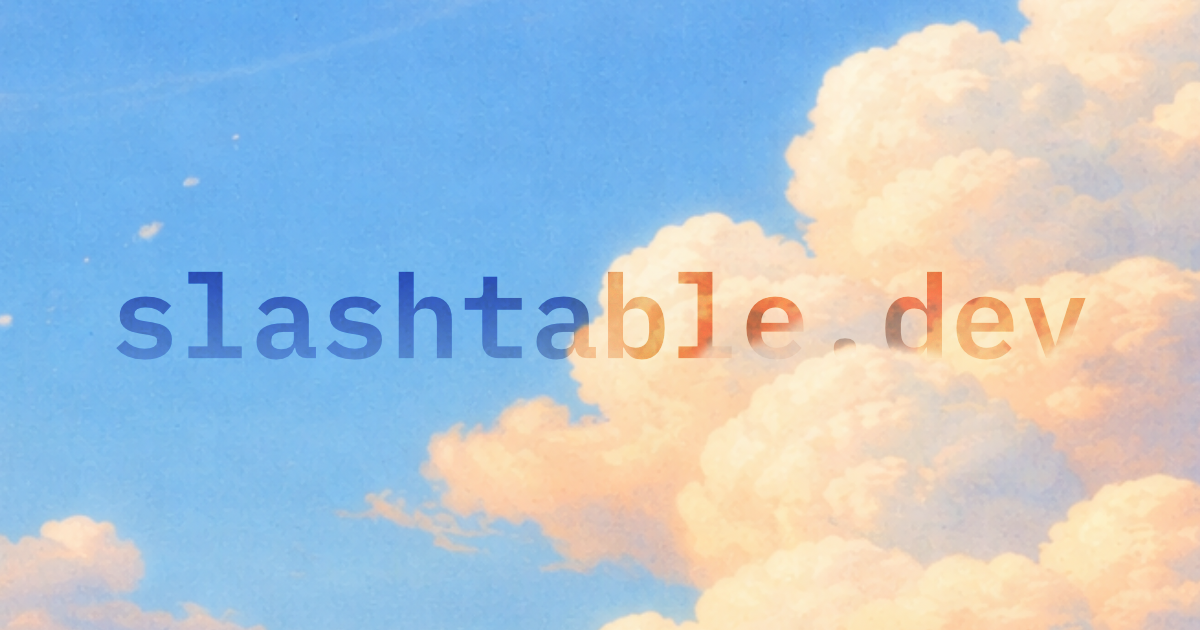
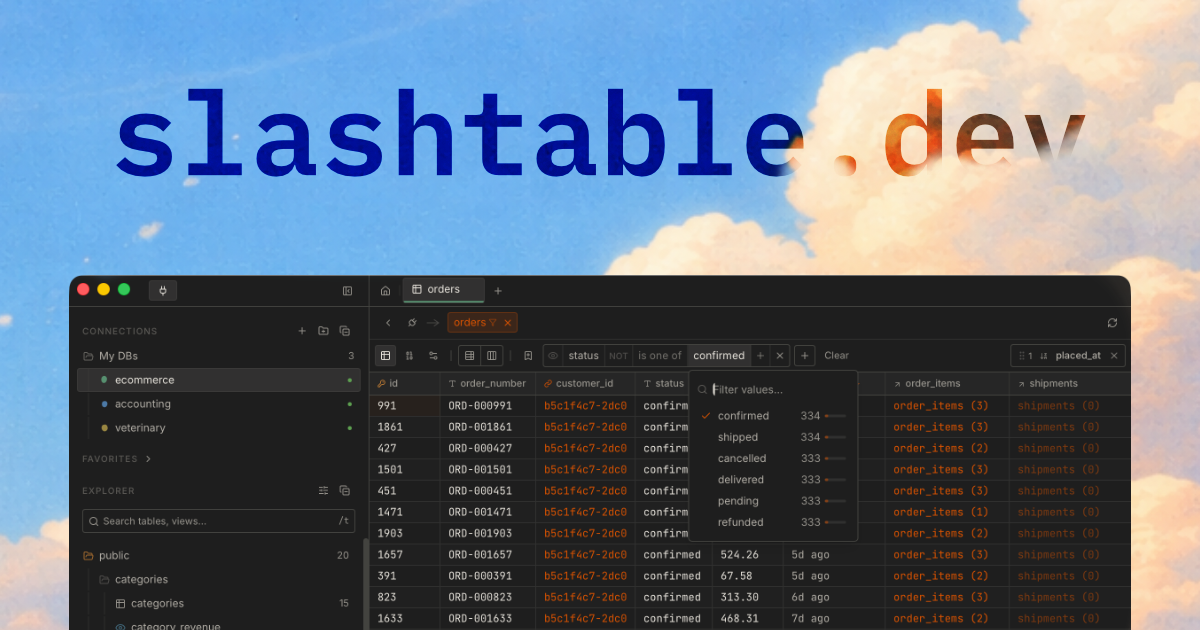
feat: refine pricing, downloads and hero section

diff --git a/src/routes/pricing.tsx b/src/routes/pricing.tsx
@@ -1,15 +1,20 @@
 import { createFileRoute } from "@tanstack/react-router";
 import { Check, Info } from "lucide-react";
-import { useMemo, useRef, useState } from "react";
+import { useRef, useState } from "react";
 import { ContactSalesModal } from "../components/ui/ContactSalesModal";
 import { ContentContainer } from "../components/ui/ContentContainer";
 import { FadeIn } from "../components/ui/FadeIn";
+import { SkyParallax } from "../components/ui/SkyParallax";
 import { ThankYouModal } from "../components/ui/ThankYouModal";
 import { useDownload } from "../hooks/useDownload";
-import { discountedPrice, formatDiscount, isDiscountActive, usePolarDiscounts } from "../hooks/usePolarDiscounts";
 import { trackCheckoutClicked, trackContactSalesOpened } from "../lib/analytics";
 import { PRICING, polarCheckoutUrl } from "../lib/copy";
 import { cn } from "../lib/utils";
+
+function parseDollars(price: string): number {
+  const m = price.match(/\d+/);
+  return m ? Number(m[0]) : 0;
+}
 
 export const Route = createFileRoute("/pricing")({
   component: PricingPage,
@@ -70,27 +75,54 @@ function VaultTooltip() {
 function PricingPage() {
   const { showThankYou, closeThankYou, triggerDownload } = useDownload();
   const [showContactSales, setShowContactSales] = useState(false);
+  const bannerRef = useRef<HTMLDivElement>(null);
 
-  const polarIds = useMemo(() => PRICING.tiers.filter((t) => t.polarId).map((t) => t.polarId as string), []);
-  const { discounts } = usePolarDiscounts(polarIds);
+  // Biggest discount across individual tiers — we give that badge extra visual weight.
+  const individualTiers = PRICING.tiers.slice(0, 3);
+  const biggestDiscount = Math.max(
+    ...individualTiers.map((t) => {
+      if (!("salePrice" in t) || !t.salePrice) return 0;
+      return parseDollars(t.price) - parseDollars(t.salePrice);
+    }),
+  );
 
   return (
     <div className="pt-32 pb-20">
       <ContentContainer>
         {/* Header */}
-        <div className="mb-16 text-center">
+        <div className="mb-10 text-center">
           <p className="mb-3 font-mono text-accent text-xs uppercase tracking-widest">{PRICING.eyebrow}</p>
           <h1 className="font-display text-4xl text-text tracking-tight lg:text-5xl">{PRICING.heading}</h1>
           <p className="mx-auto mt-4 max-w-xl text-lg text-text-secondary leading-relaxed">{PRICING.description}</p>
         </div>
 
+        {/* Early-access banner — friendly sky-parallax card, no warning styling */}
+        <FadeIn>
+          <div
+            ref={bannerRef}
+            className="relative mx-auto mb-10 max-w-4xl overflow-hidden border border-border bg-surface-1/30 px-5 py-5 backdrop-blur-sm lg:px-7 lg:py-6"
+          >
+            <SkyParallax targetRef={bannerRef} />
+            <div className="relative z-10 flex items-start gap-4 lg:items-center">
+              <span className="mt-0.5 font-mono text-lg text-accent leading-none lg:text-xl">✦</span>
+              <div className="flex-1">
+                <p className="font-mono text-[10px] text-accent uppercase tracking-widest">
+                  {PRICING.earlyAccess.eyebrow}
+                </p>
+                <p className="mt-1 text-sm text-text-secondary leading-relaxed">{PRICING.earlyAccess.body}</p>
+              </div>
+            </div>
+          </div>
+        </FadeIn>
+
         {/* Individual tiers */}
         <div className="mx-auto grid max-w-4xl gap-6 lg:grid-cols-3">
-          {PRICING.tiers.slice(0, 3).map((tier, i) => {
+          {individualTiers.map((tier, i) => {
             const highlighted = i === 1;
-            const discount = tier.polarId ? discounts[tier.polarId] : null;
-            const hasDiscount = discount != null && isDiscountActive(discount);
-            const salePrice = hasDiscount ? discountedPrice(tier.price, discount) : null;
+            const salePrice = "salePrice" in tier ? tier.salePrice : undefined;
+            const hasDiscount = !!salePrice;
+            const discountAmount = hasDiscount ? parseDollars(tier.price) - parseDollars(salePrice) : 0;
+            const isBestDeal = hasDiscount && discountAmount === biggestDiscount;
             return (
               <FadeIn key={tier.name} delay={i * 0.1}>
                 <div
@@ -103,19 +135,25 @@ function PricingPage() {
                     <div className="absolute inset-x-0 top-0 h-px bg-gradient-to-r from-transparent via-accent to-transparent" />
                   )}
 
-                  {hasDiscount && (
-                    <div className="absolute top-0 right-4 -translate-y-1/2 bg-accent px-3 py-1 font-mono text-[10px] text-bg uppercase tracking-widest">
-                      {formatDiscount(discount)}
-                    </div>
-                  )}
+                  {hasDiscount &&
+                    (isBestDeal ? (
+                      <div className="-translate-y-1/2 absolute top-0 right-4 flex items-center gap-1.5 bg-accent px-3.5 py-1.5 font-mono font-semibold text-white text-xs uppercase tracking-widest shadow-[0_0_24px_-2px_var(--color-accent),inset_0_1px_0_rgba(255,255,255,0.22),inset_0_-1px_0_rgba(0,0,0,0.18)]">
+                        <span className="h-1 w-1 rounded-full bg-white/80 shadow-[0_0_4px_rgba(255,255,255,0.8)]" />
+                        <span>${discountAmount} off</span>
+                      </div>
+                    ) : (
+                      <div className="-translate-y-1/2 absolute top-0 right-4 border border-accent/40 bg-surface px-3 py-1 font-mono text-[10px] text-accent uppercase tracking-widest">
+                        ${discountAmount} off
+                      </div>
+                    ))}
 
                   <div className="flex-1">
                     <div className="mb-6">
                       <h2 className="font-mono text-text-muted text-xs uppercase tracking-widest">{tier.name}</h2>
                       <div className="mt-3 flex items-baseline gap-2">
-                        {hasDiscount && salePrice != null ? (
+                        {hasDiscount && salePrice ? (
                           <>
-                            <span className="font-display text-4xl text-text">${Math.round(salePrice / 100)}</span>
+                            <span className="font-display text-4xl text-text">{salePrice}</span>
                             <span className="font-display text-lg text-text-muted line-through">{tier.price}</span>
                           </>
                         ) : (
@@ -168,9 +206,9 @@ function PricingPage() {
                       onClick={() =>
                         trackCheckoutClicked({
                           tier: tier.name,
-                          price: tier.price,
+                          price: salePrice ?? tier.price,
                           discount_active: hasDiscount,
-                          discount_amount: hasDiscount ? formatDiscount(discount) : null,
+                          discount_amount: hasDiscount ? `$${discountAmount} off` : null,
                           polar_id: tier.polarId as string,
                         })
                       }

diff --git a/src/routes/download.tsx b/src/routes/download.tsx
@@ -1,19 +1,15 @@
-import skyDay from "@assets/sky-day.png?as=img";
-import skyNight from "@assets/sky-night.png?as=img";
 import { createFileRoute, Link } from "@tanstack/react-router";
 import { Download } from "lucide-react";
-import { motion, useScroll, useTransform } from "motion/react";
 import { useEffect, useRef, useState } from "react";
 import type { Components } from "react-markdown";
 import ReactMarkdown from "react-markdown";
-import { useTheme } from "../components/providers/ThemeProvider";
 import { BlueprintRule } from "../components/ui/BlueprintRule";
 import { ButtonOverlays } from "../components/ui/ButtonOverlays";
 import { ContentContainer } from "../components/ui/ContentContainer";
 import { FadeIn } from "../components/ui/FadeIn";
-import { Img } from "../components/ui/Img";
 import { NoiseTexture } from "../components/ui/NoiseTexture";
 import { Diamond } from "../components/ui/SectionBorder";
+import { SkyParallax } from "../components/ui/SkyParallax";
 import { ThankYouModal } from "../components/ui/ThankYouModal";
 import { useDownload } from "../hooks/useDownload";
 import { trackDownloadStarted } from "../lib/analytics";
@@ -89,48 +85,6 @@ const markdownComponents: Components = {
 export const Route = createFileRoute("/download")({
   component: DownloadPage,
 });
-
-/**
- * Subtle sky background for the version card.
- * - Day image in light mode, night image in dark mode.
- * - Parallax: image translates up ~120px as the user scrolls past the card.
- * - Layered fades keep the image from fighting the card's foreground content.
- */
-function SkyParallax({ targetRef }: { targetRef: React.RefObject<HTMLDivElement | null> }) {
-  const { theme } = useTheme();
-  const { scrollYProgress } = useScroll({
-    target: targetRef,
-    offset: ["start end", "end start"],
-  });
-  const y = useTransform(scrollYProgress, [0, 1], ["-12%", "12%"]);
-
-  return (
-    <div aria-hidden="true" className="pointer-events-none absolute inset-0 overflow-hidden">
-      <motion.div style={{ y }} className="absolute inset-x-0 top-[-20%] h-[140%]">
-        <Img
-          image={theme === "light" ? skyDay : skyNight}
-          alt=""
-          draggable={false}
-          loading="eager"
-          className={cn(
-            "h-full w-full select-none object-cover",
-            theme === "light" ? "opacity-[0.20]" : "opacity-[0.11]",
-          )}
-          style={{ filter: "saturate(0.55)" }}
-        />
-      </motion.div>
-      {/* Top & bottom vignette — aggressive fades that swallow the image near the card edges */}
-      <div
-        className="absolute inset-0"
-        style={{
-          background:
-            "linear-gradient(to bottom, var(--color-surface-1) 0%, transparent 40%, transparent 60%, var(--color-surface-1) 100%)",
-          opacity: 0.85,
-        }}
-      />
-    </div>
-  );
-}
 
 type ArchKey = "silicon" | "intel";
 

diff --git a/src/components/ui/SkyParallax.tsx b/src/components/ui/SkyParallax.tsx
@@ -1,0 +1,57 @@
+import skyDay from "@assets/sky-day.png?as=img";
+import skyNight from "@assets/sky-night.png?as=img";
+import { motion, useScroll, useTransform } from "motion/react";
+import type { RefObject } from "react";
+import { useTheme } from "../providers/ThemeProvider";
+import { Img } from "./Img";
+
+interface SkyParallaxProps {
+  targetRef: RefObject<HTMLElement | null>;
+  /** Opacity pair [light, dark]. Default [0.20, 0.11] matches the version card. */
+  opacity?: [number, number];
+}
+
+/**
+ * Subtle sky parallax background.
+ * - Day image in light mode, night image in dark mode.
+ * - Image translates gently as the user scrolls past `targetRef`.
+ * - Wrap this inside a `relative overflow-hidden` container; place content at z-10.
+ */
+export function SkyParallax({ targetRef, opacity = [0.2, 0.11] }: SkyParallaxProps) {
+  const { theme } = useTheme();
+  const { scrollYProgress } = useScroll({
+    target: targetRef,
+    offset: ["start end", "end start"],
+  });
+  const y = useTransform(scrollYProgress, [0, 1], ["-32%", "32%"]);
+  const [lightOp, darkOp] = opacity;
+
+  return (
+    <div aria-hidden="true" className="pointer-events-none absolute inset-0 overflow-hidden">
+      {/* Motion div is 3x the container height with 100% buffer on each side so the ±32% translation
+          (≈96% of container height) never exposes the container edges. */}
+      <motion.div style={{ y }} className="absolute inset-x-0 top-[-100%] h-[300%]">
+        <Img
+          image={theme === "light" ? skyDay : skyNight}
+          alt=""
+          draggable={false}
+          loading="eager"
+          className="h-full w-full select-none object-cover"
+          style={{
+            filter: "saturate(0.55)",
+            opacity: theme === "light" ? lightOp : darkOp,
+          }}
+        />
+      </motion.div>
+      {/* Vignette — fades the image into the container edges */}
+      <div
+        className="absolute inset-0"
+        style={{
+          background:
+            "linear-gradient(to bottom, var(--color-surface-1) 0%, transparent 40%, transparent 60%, var(--color-surface-1) 100%)",
+          opacity: 0.85,
+        }}
+      />
+    </div>
+  );
+}

diff --git a/src/components/sections/Hero.tsx b/src/components/sections/Hero.tsx
@@ -8,6 +8,7 @@ import { ButtonOverlays } from "../ui/ButtonOverlays";
 import { DotGrid } from "../ui/DotGrid";
 import { ImageCompare } from "../ui/ImageCompare";
 import { NoiseTexture } from "../ui/NoiseTexture";
+import { SkyParallax } from "../ui/SkyParallax";
 
 const tooltipColors = ["#44ff88", "#ffcc00", "#cc44ff", "#00d4ff"];
 const TOOLTIP_W = 320;
@@ -62,6 +63,7 @@ export function Hero() {
   const [tooltipPos, setTooltipPos] = useState({ top: 0, left: 0 });
   const btnRef = useRef<HTMLButtonElement>(null);
   const tooltipRef = useRef<HTMLDivElement>(null);
+  const sectionRef = useRef<HTMLElement>(null);
   const openTimerRef = useRef<number>(undefined);
   const closeTimerRef = useRef<number>(undefined);
 
@@ -117,7 +119,8 @@ export function Hero() {
   }
 
   return (
-    <section className="relative pt-32 pb-20">
+    <section ref={sectionRef} className="relative overflow-hidden pt-36 pb-24 lg:pt-40 lg:pb-28">
+      <SkyParallax targetRef={sectionRef} />
       <NoiseTexture
         variant="grain"
         opacity={0.4}
@@ -125,7 +128,7 @@ export function Hero() {
       />
       <DotGrid className="opacity-[0.25] [mask-image:radial-gradient(ellipse_80%_60%_at_50%_30%,black,transparent)]" />
       <motion.div
-        className="mx-auto max-w-narrow px-6 text-center"
+        className="relative z-10 mx-auto max-w-narrow px-6 text-center"
         variants={prefersReducedMotion ? undefined : stagger}
         initial={prefersReducedMotion ? undefined : "hidden"}
         animate={prefersReducedMotion ? undefined : "visible"}
@@ -225,7 +228,7 @@ export function Hero() {
 
       {/* Hero screenshot */}
       <motion.div
-        className="mx-auto mt-16 max-w-5xl px-6 lg:mt-20"
+        className="relative z-10 mx-auto mt-16 max-w-5xl px-6 lg:mt-20"
         initial={prefersReducedMotion ? undefined : { opacity: 0, y: 24 }}
         animate={prefersReducedMotion ? undefined : { opacity: 1, y: 0 }}
         transition={

diff --git a/src/lib/copy.ts b/src/lib/copy.ts
@@ -251,7 +251,7 @@ export const DOWNLOAD_PAGE = {
   eyebrow: "Release",
   channel: "Stable channel",
   platformTag: "macOS",
-  loading: "Checking latest\u2026",
+  loading: "Checking\u2026",
   unavailable: "Release feed unavailable",
   viewChangelog: "View changelog",
   archHeading: "Pick your architecture",
@@ -409,6 +409,10 @@ export const PRICING = {
   heading: "Pay once. Or bring the team.",
   description: "Individual plans are one-time purchases. Team plans are per seat. Updates are free on every plan.",
   perpetual: "Buy once, yours forever. Updates included.",
+  earlyAccess: {
+    eyebrow: "Early access pricing",
+    body: "Personal and Pro are discounted for early access purchasers as a personal thank you for supporting the development.",
+  },
   tiers: [
     {
       name: "Free",
@@ -420,6 +424,7 @@ export const PRICING = {
     {
       name: "Personal",
       price: "$49",
+      salePrice: "$19",
       description: "For engineers who talk to more than one database.",
       features: ["3 connections", "Unlimited tabs", "Remote credential vaults"],
       role: { tag: "@supporter", color: "#00d4ff" },
@@ -429,6 +434,7 @@ export const PRICING = {
     {
       name: "Pro",
       price: "$99",
+      salePrice: "$49",
       description: "Fully unlocked.",
       features: ["Unlimited connections", "Unlimited tabs", "Remote credential vaults"],
       role: { tag: "@pro", color: "#ffcc00" },
